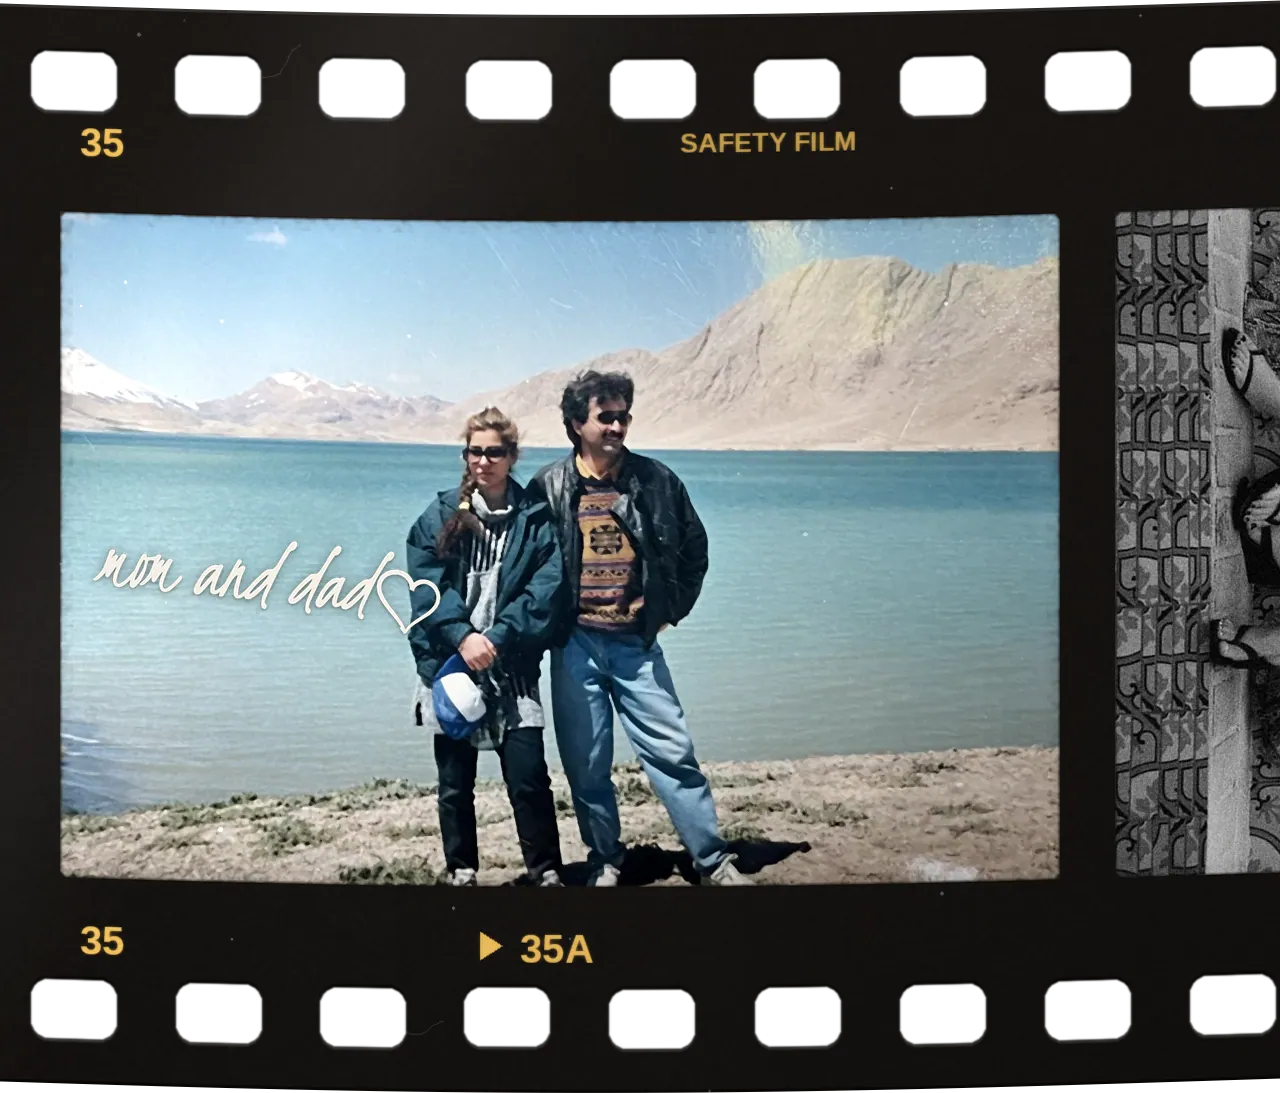
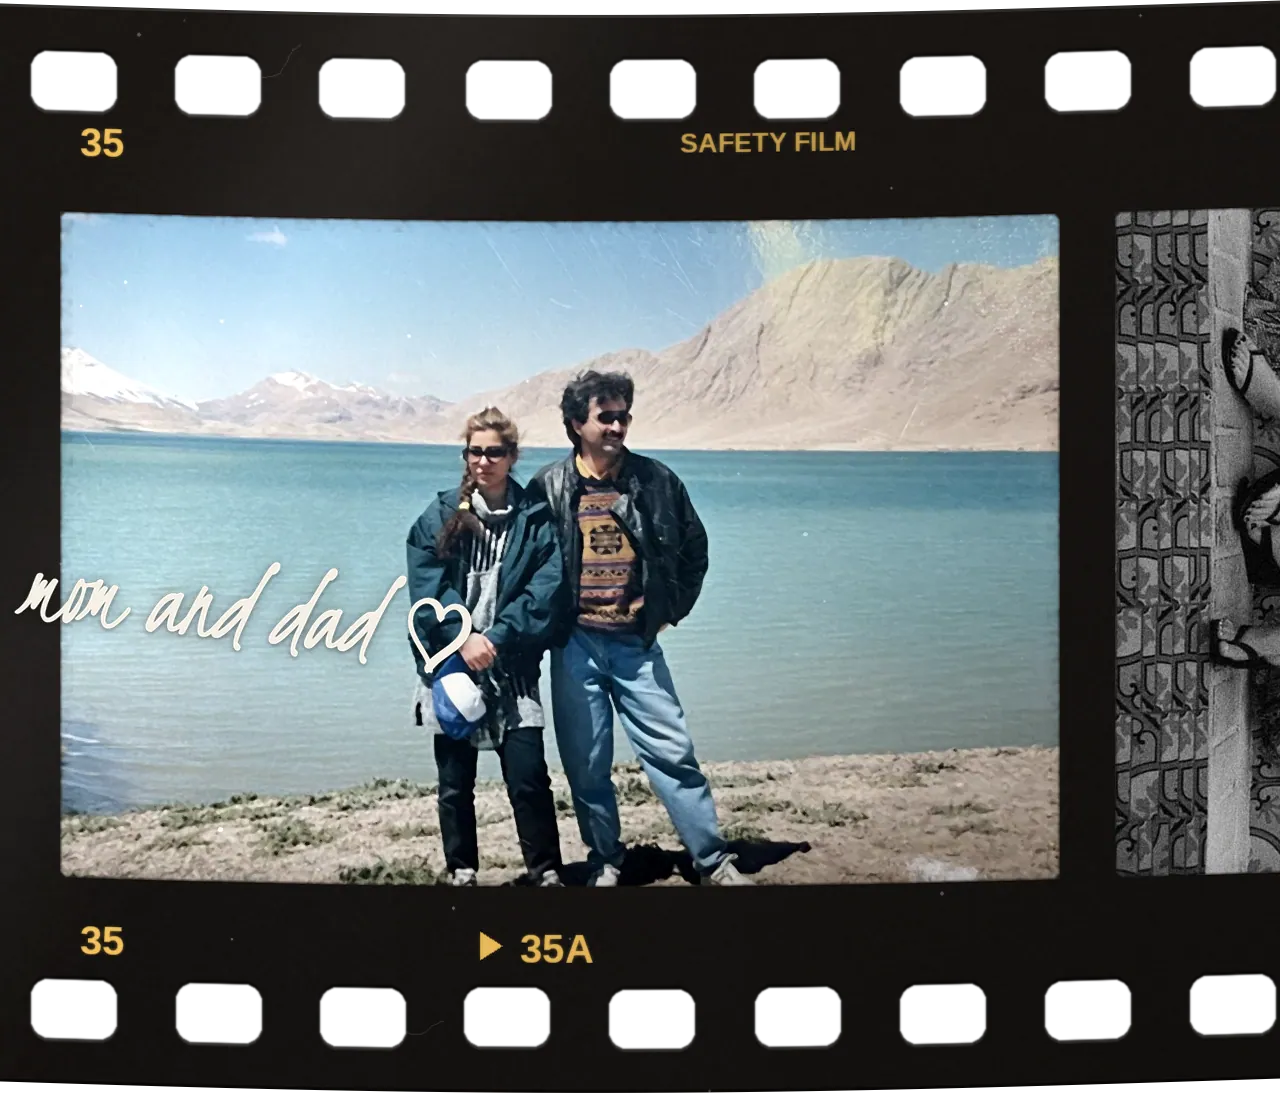
Smaller even People layout, new nature plates, redrawn hand-lettered hearts
Claude-Session: https://claude.ai/code/session_019cHY5kFv81n3dVZ9DcXyGk

Changed region(s): [[0.0, 0.4977, 0.375, 0.6221]]

diff --git a/things-i-love.html b/things-i-love.html
@@ -20,7 +20,7 @@
   <h1 aria-label="Things I love"><span class="ln" aria-hidden="true"><span>Things I love</span></span></h1>
   </section>
   <section class="loves">
-    <div class="plates" aria-hidden="true"><figure class="rv"><img src="assets/img/n/out-1.jpg" alt="" loading="lazy"></figure><figure class="rv"><img src="assets/img/n/out-2.jpg" alt="" loading="lazy"></figure><figure class="rv"><img src="assets/img/n/out-3.jpg" alt="" loading="lazy"></figure></div>
+    <div class="plates" aria-hidden="true"><figure class="rv"><img src="assets/img/n/out-4.jpg" alt="" loading="lazy"></figure><figure class="rv"><img src="assets/img/n/out-2.jpg" alt="" loading="lazy"></figure><figure class="rv"><img src="assets/img/n/out-5.jpg" alt="" loading="lazy"></figure></div>
     <ol class="loves-list stag">
       <li style="--i:0"><span class="n type">01</span><span>Piano</span></li>
       <li style="--i:1"><span class="n type">02</span><span>Yoga</span></li>
@@ -58,26 +58,26 @@
   <section id="people" aria-label="People (and pets) I love">
     <div class="sh fd"><h2>People (and pets) I love</h2></div>
     <div class="xsheet">
-  <figure class="xf" data-lightbox="assets/img/n/xb/x01.webp" data-sp="-0.03" style="left:5vw;top:6vw;width:20vw;--r:-2deg;z-index:2"><img loading="lazy" src="assets/img/n/x/x01.webp" alt="Peri and a friend in a garden by the water" width="560" height="665"></figure>
-  <figure class="xf" data-lightbox="assets/img/n/xb/x02.webp" data-sp="0.05" style="left:33vw;top:8vw;width:36vw;--r:1.5deg;z-index:3"><img loading="lazy" src="assets/img/n/x/x02.webp" alt="Peri with her brother, mom and dad by the sea at sunset" width="665" height="560"></figure>
-  <figure class="xf" data-lightbox="assets/img/n/xb/x03.webp" data-sp="-0.02" style="left:64vw;top:5vw;width:28vw;--r:-1deg;z-index:4"><img loading="lazy" src="assets/img/n/x/x03.webp" alt="Peri and a friend in the back of a car" width="665" height="560"></figure>
-  <figure class="xf" data-lightbox="assets/img/n/xb/x04.webp" data-sp="0.04" style="left:12vw;top:36vw;width:14vw;--r:3deg;z-index:5"><img loading="lazy" src="assets/img/n/x/x04.webp" alt="Peri with two friends" width="560" height="665"></figure>
-  <figure class="xf" data-lightbox="assets/img/n/xb/x05.webp" data-sp="-0.03" style="left:36vw;top:43vw;width:38vw;--r:-1.5deg;z-index:1"><img loading="lazy" src="assets/img/n/x/x05.webp" alt="Peri&rsquo;s mom and dad by a lake" width="665" height="560"></figure>
-  <figure class="xf" data-lightbox="assets/img/n/xb/x06.webp" data-sp="0.05" style="left:74vw;top:34vw;width:20vw;--r:2deg;z-index:2"><img loading="lazy" src="assets/img/n/x/x06.webp" alt="Peri and a friend on tiled steps" width="560" height="665"></figure>
-  <figure class="xf" data-lightbox="assets/img/n/xb/x07.webp" data-sp="-0.02" style="left:4vw;top:58vw;width:30vw;--r:-3deg;z-index:3"><img loading="lazy" src="assets/img/n/x/x07.webp" alt="Peri and her brother at sunset" width="560" height="665"></figure>
-  <figure class="xf" data-lightbox="assets/img/n/xb/x08.webp" data-sp="0.04" style="left:38vw;top:80vw;width:19vw;--r:1deg;z-index:4"><img loading="lazy" src="assets/img/n/x/x08.webp" alt="Peri and a friend, close up" width="560" height="665"></figure>
-  <figure class="xf" data-lightbox="assets/img/n/xb/x09.webp" data-sp="-0.03" style="left:60vw;top:82vw;width:22vw;--r:-2deg;z-index:5"><img loading="lazy" src="assets/img/n/x/x09.webp" alt="Peri with friends on a boat" width="560" height="665"></figure>
-  <figure class="xf" data-lightbox="assets/img/n/xb/x10.webp" data-sp="0.05" style="left:85vw;top:89vw;width:11.5vw;--r:2.5deg;z-index:1"><img loading="lazy" src="assets/img/n/x/x10.webp" alt="A friend holding a kitten" width="560" height="665"></figure>
-  <figure class="xf" data-lightbox="assets/img/n/xb/x11.webp" data-sp="-0.02" style="left:6vw;top:99vw;width:24vw;--r:1deg;z-index:2"><img loading="lazy" src="assets/img/n/x/x11.webp" alt="Peri and a friend hugging in a garden" width="560" height="665"></figure>
-  <figure class="xf" data-lightbox="assets/img/n/xb/x12.webp" data-sp="0.04" style="left:34vw;top:123vw;width:34vw;--r:-1deg;z-index:3"><img loading="lazy" src="assets/img/n/x/x12.webp" alt="Peri and a friend by the sea" width="665" height="560"></figure>
-  <figure class="xf" data-lightbox="assets/img/n/xb/x13.webp" data-sp="-0.03" style="left:64vw;top:112vw;width:21vw;--r:2deg;z-index:4"><img loading="lazy" src="assets/img/n/x/x13.webp" alt="A polaroid held up in front of flowers" width="560" height="665"></figure>
-  <figure class="xf" data-lightbox="assets/img/n/xb/x14.webp" data-sp="0.05" style="left:73vw;top:142vw;width:20vw;--r:-2deg;z-index:5"><img loading="lazy" src="assets/img/n/x/x14.webp" alt="Peri with her dog" width="560" height="665"></figure>
-  <figure class="xf" data-lightbox="assets/img/n/xb/x15.webp" data-sp="-0.02" style="left:44vw;top:102vw;width:14vw;--r:2deg;z-index:1"><img loading="lazy" src="assets/img/n/x/x15.webp" alt="A small dog squinting in the sun" width="560" height="665"></figure>
-  <figure class="xf" data-lightbox="assets/img/n/xb/x16.webp" data-sp="0.04" style="left:40vw;top:160vw;width:16vw;--r:-1deg;z-index:2"><img loading="lazy" src="assets/img/n/x/x16.webp" alt="Two dogs on a blanket" width="560" height="665"></figure>
-  <figure class="xf" data-lightbox="assets/img/n/xb/x18.webp" data-sp="0.03" style="left:3vw;top:129vw;width:29vw;--r:-1.5deg;z-index:3"><img loading="lazy" src="assets/img/n/x/x18.webp" alt="Peri and her mom on a waterfront promenade at sunset, beside a bed of pink flowers" width="665" height="560"></figure>
-  <figure class="xf" data-lightbox="assets/img/n/xb/x19.webp" data-sp="-0.03" style="left:74vw;top:62vw;width:21vw;--r:2deg;z-index:2"><img loading="lazy" src="assets/img/n/x/x19.webp" alt="A schnauzer standing on the lawn" width="665" height="660"></figure>
-  <figure class="xf" data-lightbox="assets/img/n/xb/x20.webp" data-sp="0.04" style="left:4vw;top:158vw;width:28vw;--r:-1deg;z-index:2"><img loading="lazy" src="assets/img/n/x/x20.webp" alt="A small tan dog in a pink coat standing over a sleepy schnauzer on a bed" width="665" height="560"></figure>
-  <figure class="xf" data-lightbox="assets/img/n/xb/x21.webp" data-sp="-0.03" style="left:86vw;top:114vw;width:12vw;--r:-2deg;z-index:3"><img loading="lazy" src="assets/img/n/x/x21.webp" alt="A black schnauzer wrapped in a cream blanket" width="560" height="665"></figure>
+  <figure class="xf" data-lightbox="assets/img/n/xb/x01.webp" data-sp="-0.012" style="--r:-1.6deg"><img loading="lazy" src="assets/img/n/x/x01.webp" alt="Peri and a friend in a garden by the water" width="560" height="665"></figure>
+  <figure class="xf l" data-lightbox="assets/img/n/xb/x02.webp" data-sp="0.02" style="--r:1.1deg"><img loading="lazy" src="assets/img/n/x/x02.webp" alt="Peri with her brother, mom and dad by the sea at sunset" width="665" height="560"></figure>
+  <figure class="xf l" data-lightbox="assets/img/n/xb/x19.webp" data-sp="-0.008" style="--r:-0.7deg"><img loading="lazy" src="assets/img/n/x/x19.webp" alt="A schnauzer standing on the lawn" width="665" height="660"></figure>
+  <figure class="xf l" data-lightbox="assets/img/n/xb/x03.webp" data-sp="0.025" style="--r:1.7deg"><img loading="lazy" src="assets/img/n/x/x03.webp" alt="Peri and a friend in the back of a car" width="665" height="560"></figure>
+  <figure class="xf" data-lightbox="assets/img/n/xb/x04.webp" data-sp="-0.015" style="--r:-1.2deg"><img loading="lazy" src="assets/img/n/x/x04.webp" alt="Peri with two friends" width="560" height="665"></figure>
+  <figure class="xf l" data-lightbox="assets/img/n/xb/x05.webp" data-sp="0.018" style="--r:1.4deg"><img loading="lazy" src="assets/img/n/x/x05.webp" alt="Peri&rsquo;s mom and dad by a lake" width="665" height="560"></figure>
+  <figure class="xf l" data-lightbox="assets/img/n/xb/x20.webp" data-sp="-0.02" style="--r:-1.9deg"><img loading="lazy" src="assets/img/n/x/x20.webp" alt="A small tan dog in a pink coat standing over a sleepy schnauzer on a bed" width="665" height="560"></figure>
+  <figure class="xf" data-lightbox="assets/img/n/xb/x06.webp" data-sp="0.01" style="--r:0.9deg"><img loading="lazy" src="assets/img/n/x/x06.webp" alt="Peri and a friend on tiled steps" width="560" height="665"></figure>
+  <figure class="xf" data-lightbox="assets/img/n/xb/x07.webp" data-sp="-0.012" style="--r:-1.3deg"><img loading="lazy" src="assets/img/n/x/x07.webp" alt="Peri and her brother at sunset" width="560" height="665"></figure>
+  <figure class="xf" data-lightbox="assets/img/n/xb/x08.webp" data-sp="0.022" style="--r:1.6deg"><img loading="lazy" src="assets/img/n/x/x08.webp" alt="Peri and a friend, close up" width="560" height="665"></figure>
+  <figure class="xf" data-lightbox="assets/img/n/xb/x15.webp" data-sp="-0.01" style="--r:-0.8deg"><img loading="lazy" src="assets/img/n/x/x15.webp" alt="A small dog squinting in the sun" width="560" height="665"></figure>
+  <figure class="xf" data-lightbox="assets/img/n/xb/x09.webp" data-sp="0.016" style="--r:1.5deg"><img loading="lazy" src="assets/img/n/x/x09.webp" alt="Peri with friends on a boat" width="560" height="665"></figure>
+  <figure class="xf" data-lightbox="assets/img/n/xb/x10.webp" data-sp="-0.022" style="--r:-1.7deg"><img loading="lazy" src="assets/img/n/x/x10.webp" alt="A friend holding a kitten" width="560" height="665"></figure>
+  <figure class="xf" data-lightbox="assets/img/n/xb/x21.webp" data-sp="0.008" style="--r:1.0deg"><img loading="lazy" src="assets/img/n/x/x21.webp" alt="A black schnauzer wrapped in a cream blanket" width="560" height="665"></figure>
+  <figure class="xf" data-lightbox="assets/img/n/xb/x11.webp" data-sp="-0.014" style="--r:-1.1deg"><img loading="lazy" src="assets/img/n/x/x11.webp" alt="Peri and a friend hugging in a garden" width="560" height="665"></figure>
+  <figure class="xf l" data-lightbox="assets/img/n/xb/x12.webp" data-sp="0.02" style="--r:1.8deg"><img loading="lazy" src="assets/img/n/x/x12.webp" alt="Peri and a friend by the sea" width="665" height="560"></figure>
+  <figure class="xf" data-lightbox="assets/img/n/xb/x16.webp" data-sp="-0.016" style="--r:-1.0deg"><img loading="lazy" src="assets/img/n/x/x16.webp" alt="Two dogs on a blanket" width="560" height="665"></figure>
+  <figure class="xf" data-lightbox="assets/img/n/xb/x13.webp" data-sp="0.012" style="--r:0.8deg"><img loading="lazy" src="assets/img/n/x/x13.webp" alt="A polaroid held up in front of flowers" width="560" height="665"></figure>
+  <figure class="xf l" data-lightbox="assets/img/n/xb/x18.webp" data-sp="-0.02" style="--r:-1.5deg"><img loading="lazy" src="assets/img/n/x/x18.webp" alt="Peri and her mom on a waterfront promenade at sunset, beside a bed of pink flowers" width="665" height="560"></figure>
+  <figure class="xf" data-lightbox="assets/img/n/xb/x14.webp" data-sp="0.01" style="--r:1.3deg"><img loading="lazy" src="assets/img/n/x/x14.webp" alt="Peri with her dog" width="560" height="665"></figure>
     </div>
   </section>
   <section class="hello">

diff --git a/assets/inner.css b/assets/inner.css
@@ -81,9 +81,11 @@ header a[aria-current]{background:none}
 .loves-list a{color:var(--red);text-decoration:underline;text-underline-offset:.22em}
 .sh{padding:6vh 6vw 7vh;border-top:1px solid var(--line);margin:0 6vw;padding-left:0;padding-right:0}
 .sh h2{font:400 clamp(2.4rem,5.6vw,6.4rem)/1 var(--serif);letter-spacing:-.025em}
-.xsheet{position:relative;height:186vw;margin:0;overflow:hidden}
-.xf{position:absolute;margin:0;cursor:zoom-in;transform:translateY(var(--py,0)) rotate(var(--r,0deg));transition:transform .5s var(--e),filter .5s;filter:drop-shadow(0 1px 1px rgba(30,18,8,.38)) drop-shadow(.25rem .7rem .8rem rgba(30,18,8,.17))}
-.xf img{height:auto}
+.xsheet{position:relative;margin:0 6vw;padding:2vw 0 8vw;display:grid;grid-template-columns:repeat(5,1fr);gap:3.2vw 2.2vw;align-items:center}
+.xf:nth-child(5n+2){margin-top:3.4vw}.xf:nth-child(5n+3){margin-top:-1.2vw}.xf:nth-child(5n+4){margin-top:2.2vw}.xf:nth-child(5n+5){margin-top:.6vw}
+.xf{position:relative;margin:0;cursor:zoom-in;transform:translateY(var(--py,0)) rotate(var(--r,0deg));transition:transform .5s var(--e),filter .5s;filter:drop-shadow(0 1px 1px rgba(30,18,8,.38)) drop-shadow(.25rem .7rem .8rem rgba(30,18,8,.17))}
+.xf img{display:block;width:100%;height:auto}
+.xf.l{width:108%;justify-self:center}
 .xf:hover,.xf:focus-visible{z-index:20!important;transform:translateY(var(--py,0)) rotate(0deg) scale(1.07);filter:drop-shadow(0 1px 1px rgba(30,18,8,.3)) drop-shadow(.4rem 1.4rem 1.6rem rgba(30,18,8,.26))}
 /* rankings */
 .ranks{display:grid;grid-template-columns:22vw 1fr;gap:0 5vw;padding:0 6vw 10vh}
@@ -121,7 +123,9 @@ header{position:absolute;color:inherit;mix-blend-mode:normal;padding:1.4rem 16px
 .intro{width:auto;margin:0 0 2rem}.pf{height:auto;width:100%;aspect-ratio:var(--ar);margin:0 0 2.4rem}.pf .no{display:none}.pf img{transform:none}.hud,.bar{display:none}.prail{height:auto!important}
 .loves{grid-template-columns:1fr;padding:0 16px 5rem}.plates{display:grid;grid-template-columns:1fr 1fr 1fr;gap:10px;margin-bottom:2.4rem}.plates figure,.plates figure+figure,.plates figure:nth-child(n){width:auto;margin:0}
 .loves-list{columns:1}.sh{margin:0 16px}
-.xsheet{height:auto;padding:1.5rem 0 3rem;display:grid;grid-template-columns:1fr 1fr;gap:5vw 4vw;align-items:start}.xf{position:static;width:auto!important;transform:rotate(var(--r))!important}.xf:nth-child(even){margin-top:8vw}
+.xsheet{margin:0 16px;height:auto;padding:1.5rem 0 3rem;display:grid;grid-template-columns:1fr 1fr;gap:5vw 4vw;align-items:start}.xf{position:static;width:auto!important;transform:rotate(var(--r))!important}.xf:nth-child(n){margin-top:0}.xf:nth-child(even){margin-top:8vw}.xf.l{width:auto;justify-self:stretch}
 .ranks{grid-template-columns:1fr;padding:0 16px 4rem}.ranks .plates{position:static;grid-template-columns:1fr 1fr;max-width:20rem}.plot{grid-column:1;margin-top:5rem}
 .hello{padding-top:10vh}.hello .hi{font-size:4.8rem}.hello .links{gap:1.4rem}.colophon{padding:4rem 16px 2rem}
 }
+
+@media (min-width:761px) and (max-width:1100px){.xsheet{grid-template-columns:repeat(4,1fr)}.xf:nth-child(n){margin-top:0}.xf:nth-child(4n+2){margin-top:3.4vw}.xf:nth-child(4n+4){margin-top:2vw}}
